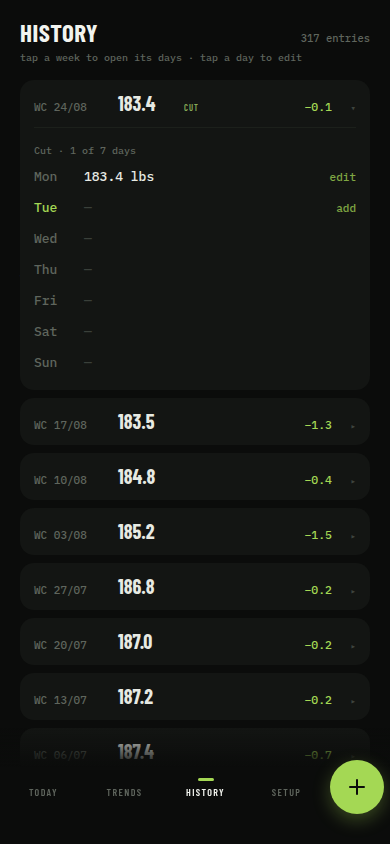
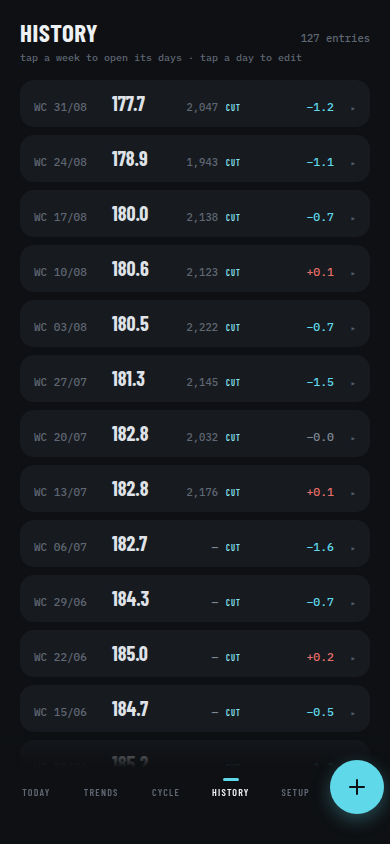
Update README for the cycle/nutrition app, refresh screenshots
- Retitle to "Weight & Cycle Tracker" (the actual app name in every manifest;
  "maskwearer" is only the Android appId namespace, now noted in the Android
  section).
- New Features section covering the Reach solver, training-phase log, the Cycle
  screen (period-start-only input, derived phases, Weight-by-phase de-trending)
  and the Android calories / adaptive-TDEE feature via Health Connect.
- Project layout, stack ("five screens"), and database-setup notes brought up to
  date (cycle.ts / energy.ts / healthConnect.ts, migrations 0001/0004/0005,
  minSdk 26 / targetSdk 35).
- Add the referenced .env.example (was missing).
- Regenerate all four screenshots from synthetic seed data on the current cyan
  theme and add the Cycle screen shot.

diff --git a/README.md b/README.md
@@ -1,27 +1,62 @@
-# Weight Tracker
+# Weight &amp; Cycle Tracker
 
-A single-purpose weight tracking PWA for cut/bulk cycles. Log a weigh-in in one tap, judge
-progress by the 7-day rolling average (not the noisy daily number), see weekly averages plotted
-with a line of best fit, and ask "if this continues, when do I hit X?" in both directions — set a
-target weight and get a date, or set a date and get a projected weight.
+A single-purpose tracker for someone running cut/bulk cycles who also wants their weight read
+against their menstrual cycle. Log a weigh-in in one tap, judge progress by the 7-day rolling
+average (not the noisy daily number), see weekly averages plotted with a line of best fit, and
+ask "if this continues, when do I hit X?" in both directions — set a target weight and get a
+date, or set a date and get a projected weight. A separate Cycle screen shades the weight line
+by menstrual phase and learns each phase's typical water-weight swing, so a luteal bump reads as
+water rather than fat. On Android it also pulls daily calories from Health Connect and runs an
+adaptive-TDEE maintenance estimate.
 
 Ships as a web PWA and as a native Android app via Capacitor.
 
 <p align="center">
-  <img src="docs/screenshots/today.png" width="220" alt="Today screen" />
-  <img src="docs/screenshots/trends.png" width="220" alt="Trends screen" />
-  <img src="docs/screenshots/history.png" width="220" alt="History screen" />
-  <img src="docs/screenshots/setup.png" width="220" alt="Setup screen" />
+  <img src="docs/screenshots/today.png" width="200" alt="Today screen" />
+  <img src="docs/screenshots/trends.png" width="200" alt="Trends screen" />
+  <img src="docs/screenshots/cycle.png" width="200" alt="Cycle screen" />
+  <img src="docs/screenshots/history.png" width="200" alt="History screen" />
+  <img src="docs/screenshots/setup.png" width="200" alt="Setup screen" />
 </p>
+
+## Features
+
+- **Weigh-in** — one-tap keypad entry for today (or any past day). The headline number is the
+  7-day rolling average; a pace ring compares this week's rate to the target, and Today also
+  shows 14/30-day averages, current rate, logging streak and window completeness.
+- **Trends** — weekly averages as inline SVG with a least-squares fit line. The fit is scoped to
+  the current training phase so a wide window never blends a bulk and a cut into one slope. The
+  fit and its forward projection are one continuous line; a second line shows the target pace.
+- **Reach solver** — bidirectional. Set a target weight → get a calendar date and week count;
+  set a number of weeks → get a projected weight. Reports "flat" or "unreachable" when the
+  trend doesn't support an answer.
+- **Training phases** — a Cut/Bulk/Maintain/Deload log. Maintain and Deload weeks fold into the
+  enclosing Cut/Bulk span (so the direction persists) but are marked on the chart on their own
+  week. Chart bands and the fit both follow this log.
+- **Cycle** — log a *period start* (end optional); everything else is derived. Current phase and
+  cycle day, days to next period, median cycle length (median of the last six start-to-start
+  gaps, clamped to 21–40 days) and a regularity read. The weight chart is shaded into
+  Menstrual / Follicular / Ovulation / Luteal bands with a 14-day forward prediction.
+  **Weight by phase** de-trends each completed cycle by its own least-squares fit, then buckets
+  the daily residuals by phase — the result is a per-phase water-weight signature, and the
+  status card uses it to interpret where today's weight sits relative to your own trend.
+- **Calories / adaptive TDEE** (Android only) — daily calories-consumed totals come from Health
+  Connect, which MyFitnessPal writes into. Health Connect only retains ~30 days locally, so each
+  day is copied into Supabase (`daily_nutrition`) as durable history. The maintenance estimate
+  runs over a 28-day window that never spans a Cut↔Bulk change; it derives a target intake and
+  the adjustment needed to hit the weekly rate, using different energy densities for loss
+  (3500 kcal/lb) and gain (3100), picked from the logged phase rather than the scale-trend sign.
+- **Offline-first** — logging works with no network; writes queue locally and sync when back
+  online. A `localStorage` snapshot makes the next boot instant.
 
 ## Stack
 
-- **React + Vite + TypeScript**, no router — five screens (`Today`, `Trends`, `History`, `Setup`,
-  `Cycle`) switch on a single `screen` field in a React Context + `useReducer` store.
-- **Supabase** (Postgres + email magic-link auth) for storage, with a `localStorage` cache and an
-  offline write queue in front of it — logging a weigh-in works with no network and syncs when
-  back online.
-- **Capacitor** wraps the same web build as a native Android app.
+- **React + Vite + TypeScript**, no router — five screens (`Today`, `Trends`, `Cycle`,
+  `History`, `Setup`) switch on a single `screen` field in a React Context + `useReducer` store.
+- **Supabase** (Postgres + email magic-link auth) for storage, with a `localStorage` cache and
+  an offline write queue in front of it. Single real user; RLS scopes every row to `auth.uid()`.
+- **Capacitor** wraps the same web build as a native Android app. A small Kotlin plugin
+  (`HealthConnectPlugin.kt`) bridges Health Connect for the calories feature.
 - Charts are hand-rolled inline SVG (`src/lib/chartGeometry.ts` + `src/components/chart/`) — no
   charting library.
 
@@ -29,16 +64,16 @@ Ships as a web PWA and as a native Android app via Capacitor.
 
 ```
 src/
-  lib/        pure, unit-tested math: rolling averages, phase spans, least-squares fit,
-              the bidirectional Reach solver, chart geometry
+  lib/        pure, unit-tested logic: rolling averages, phase spans, least-squares fit,
+              the bidirectional Reach solver, chart geometry, cycle phases, energy/TDEE
   store/      state shape + reducer + the AppContext that wires in persistence/sync
-  data/       Supabase client, offline queue, sync, auth gate
-  components/ shared UI (nav, chart, entry sheet, ui primitives)
-  screens/    Today, Trends, History, Setup, Cycle
+  data/       Supabase client, offline queue, sync, auth gate, Health Connect bridge
+  components/ shared UI (nav, chart, entry sheets, ui primitives)
+  screens/    Today, Trends, Cycle, History, Setup
 tests/        vitest, run against a synthetic 317-day weigh-in fixture (tests/fixtures/weight-data.ts)
 supabase/
-  migrations/ 0001 schema (entries, phase_log, settings + RLS), 0004 cycle_log, 0005 nutrition
-android/      Capacitor-generated native project
+  migrations/ 0001 schema (entries, phase_log, settings + RLS), 0004 cycle_log, 0005 daily_nutrition
+android/      Capacitor-generated native project (appId com.maskwearer.weighttracker)
 ```
 
 ## Local development
@@ -49,20 +84,21 @@ cp .env.example .env.local   # fill in your Supabase project URL + anon key
 npm run dev
 ```
 
-Without Supabase credentials the app still runs — every `src/data/api.ts` call checks
-`supabaseConfigured` and no-ops, so you get a fully local, offline-only session. Fresh installs
+Without Supabase credentials the app still runs — `AuthGate` falls through to a local-only
+session and every `src/data/api.ts` call checks `supabaseConfigured` and no-ops. Fresh installs
 boot with no entries (log a weigh-in to get started).
 
 ### Database setup
 
 Run the migrations in `supabase/migrations/` in order via the Supabase SQL Editor (or the
-Supabase CLI once you're linked to a project). `0001_init.sql` creates the schema; the rest add
-the cycle-log and daily-nutrition tables.
+Supabase CLI once you're linked to a project). `0001_init.sql` creates the core schema
+(`entries`, `phase_log`, `settings`) with RLS; `0004` adds `cycle_log`; `0005` adds
+`daily_nutrition`. Every migration is idempotent (`create table if not exists` + upserts).
 
 ### Other scripts
 
 ```bash
-npm test     # vitest — math/chart geometry tests against the synthetic weigh-in fixture
+npm test     # vitest — logic tests against the synthetic weigh-in fixture
 npm run lint # oxlint
 npm run build
 ```
@@ -76,12 +112,16 @@ cd android && ./gradlew assembleDebug
 adb install -r app/build/outputs/apk/debug/app-debug.apk
 ```
 
-Needs a JDK (not just a JRE) and the Android SDK on `$ANDROID_HOME`. The debug APK is unsigned —
-fine for sideloading to your own device, but a release build needs a signing key before wider
-distribution.
+Needs a JDK (not just a JRE) and the Android SDK on `$ANDROID_HOME`; `minSdk` is 26,
+`targetSdk` 35. The debug APK is unsigned — fine for sideloading to your own device, but a
+release build needs a signing key before wider distribution.
 
 Magic-link sign-in on native builds redirects through a custom `weighttracker://login-callback`
 URL scheme (see `src/data/AuthGate.tsx` and the intent-filter in
-`android/app/src/main/AndroidManifest.xml`) so the email link opens the app instead of a browser.
-That URL also needs to be added to the Supabase project's Authentication → URL Configuration →
-Redirect URLs allow-list.
+`android/app/src/main/AndroidManifest.xml`) so the email link opens the app instead of a
+browser. That URL also needs to be added to the Supabase project's Authentication → URL
+Configuration → Redirect URLs allow-list.
+
+The calories feature requests the Health Connect `READ_NUTRITION` permission at runtime and
+reads daily dietary-energy totals via `HealthConnectPlugin.kt`. It's Android-only — on web and
+iOS the Setup screen just shows "not connected" and the feature stays inert.
